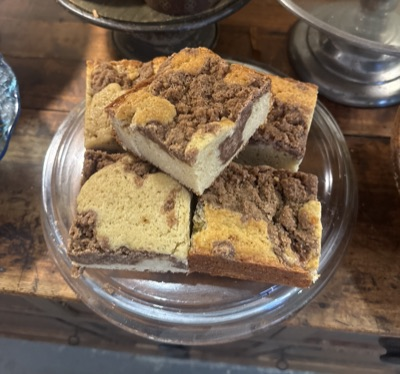
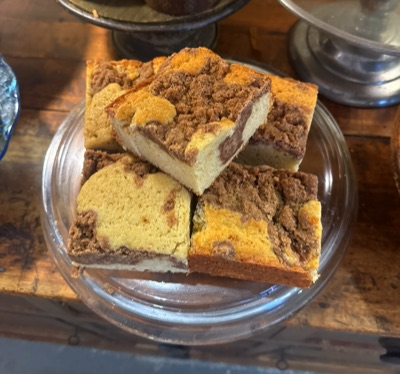
Add 6 new products, Meet the Bakers and Classes & Catering sections
Content update from the owner's spreadsheet: description edits for the
challah/focaccia/granola, an updated scone photo, a saturation boost on
the coffee cake photo, a delivery mention in the ordering blurb, six new
products (Chocolate "Wave" Cake, Olive Oil Cake, Vegan-Friendly "Wacky"
Chocolate Cake, Mini Molten Chocolate Cakes, "Shiny Bottom" Brown Butter
Oatmeal Cookies, Jerusalem Bagels), and two new sections: Meet the Bakers
(bios + family photos) and Classes & Catering.

diff --git a/index.html b/index.html
@@ -51,7 +51,7 @@
       "itemOffered": {
         "@type": "Product",
         "name": "Blue Ribbon Challah",
-        "description": "As sumptuous as it is striking, Uncle Mimi's challah is the perfect addition to your Shabbat table or festive dinner. Just as delicious on its own or as a base for french toast!"
+        "description": "As sumptuous as it is striking, Uncle Mimi's challah is the perfect addition to your Shabbat table or festive dinner. Delicious on its own or as a base for French toast!"
       },
       "availability": "https://schema.org/LimitedAvailability"
     },
@@ -60,7 +60,7 @@
       "itemOffered": {
         "@type": "Product",
         "name": "Focaccia",
-        "description": "The reigning blue ribbon winner in the Martha's Vineyard Agricultural Fair's professional yeast bread category."
+        "description": "If you are looking for a deeply savory, ultra flavorful bread, try this award winning focaccia."
       },
       "availability": "https://schema.org/LimitedAvailability"
     },
@@ -69,7 +69,7 @@
       "itemOffered": {
         "@type": "Product",
         "name": "Granola",
-        "description": "Naturally vegan, slightly sweet, and absolutely addictive."
+        "description": "Naturally vegan-friendly, gluten-free, slightly sweet, and absolutely addictive."
       },
       "availability": "https://schema.org/LimitedAvailability"
     },
@@ -99,6 +99,60 @@
         "description": "It's all in the name. Made from a prized family recipe."
       },
       "availability": "https://schema.org/LimitedAvailability"
+    },
+    {
+      "@type": "Offer",
+      "itemOffered": {
+        "@type": "Product",
+        "name": "Chocolate \"Wave\" Cake",
+        "description": "A light and airy chocolate cake with a perfectly balanced sweetness — simple, delicate, and sure to satisfy every craving."
+      },
+      "availability": "https://schema.org/LimitedAvailability"
+    },
+    {
+      "@type": "Offer",
+      "itemOffered": {
+        "@type": "Product",
+        "name": "Olive Oil Cake",
+        "description": "Rich and tender, our Olive Oil Cake offers a soft, golden crumb with a subtle fruity depth and bright notes of fresh citrus. This is an elegant classic that pairs beautifully with fresh berries, a dollop of whipped cream, or a warm cup of coffee."
+      },
+      "availability": "https://schema.org/LimitedAvailability"
+    },
+    {
+      "@type": "Offer",
+      "itemOffered": {
+        "@type": "Product",
+        "name": "Vegan-Friendly \"Wacky\" Chocolate Cake",
+        "description": "An iconic 1930s classic! Our 'Wacky' Chocolate Cake uses traditional pantry ingredients to create an impossibly soft, rich chocolate sponge without any dairy or eggs."
+      },
+      "availability": "https://schema.org/LimitedAvailability"
+    },
+    {
+      "@type": "Offer",
+      "itemOffered": {
+        "@type": "Product",
+        "name": "Mini Molten Chocolate Cakes",
+        "description": "Crafted with high-quality dark chocolate and pure butter, these warm mini lava cakes deliver a soft baked exterior with a luscious chocolate center in every bite."
+      },
+      "availability": "https://schema.org/LimitedAvailability"
+    },
+    {
+      "@type": "Offer",
+      "itemOffered": {
+        "@type": "Product",
+        "name": "\"Shiny Bottom\" Brown Butter Oatmeal Cookies",
+        "description": "Ultra-thin oatmeal lace crisps with a glassy, caramelized toffee bottom. Golden, crunchy, and packed with flavor."
+      },
+      "availability": "https://schema.org/LimitedAvailability"
+    },
+    {
+      "@type": "Offer",
+      "itemOffered": {
+        "@type": "Product",
+        "name": "Jerusalem Bagels",
+        "description": "Light and airy, these elongated, oval street-style bagels feature a soft, bread-like crumb and a delicate crust. Perfect for tearing apart and pairing with your favorite savory dips."
+      },
+      "availability": "https://schema.org/LimitedAvailability"
     }
   ],
   "sameAs": [
@@ -113,7 +167,7 @@
     <div class="wrap wrap--wide site-header__inner">
       <a class="brand brand--logo" href="#top"><img class="brand__img" src="assets/images/brand/uncle-mimi-logo.png" width="204" height="96" alt="Uncle Mimi's Kitchen" fetchpriority="high"></a>
       <nav class="primary-nav" aria-label="Primary">
-        <ul><li><a href="#story" data-spy>Our Story</a></li><li><a href="#products" data-spy>Products</a></li><li><a href="#locations" data-spy>Where to Find Us</a></li><li><a href="#contact" data-spy>Contact</a></li></ul>
+        <ul><li><a href="#story" data-spy>Our Story</a></li><li><a href="#products" data-spy>Products</a></li><li><a href="#team" data-spy>Meet the Bakers</a></li><li><a href="#extras" data-spy>Classes &amp; Catering</a></li><li><a href="#locations" data-spy>Where to Find Us</a></li><li><a href="#contact" data-spy>Contact</a></li></ul>
       </nav>
       <div class="header-actions">
         <a class="btn btn--primary" href="#contact">Custom Orders</a>
@@ -174,7 +228,7 @@
           </div>
           <div class="product-card__body">
             <h3 class="product-card__name">Blue Ribbon Challah</h3>
-            <p class="product-card__desc">As sumptuous as it is striking, Uncle Mimi's challah is the perfect addition to your Shabbat table or festive dinner. Just as delicious on its own or as a base for french toast!</p>
+            <p class="product-card__desc">As sumptuous as it is striking, Uncle Mimi's challah is the perfect addition to your Shabbat table or festive dinner. Delicious on its own or as a base for French toast!</p>
             
           </div>
         </article><article class="product-card" data-reveal style="transition-delay:90ms">
@@ -191,7 +245,7 @@
           </div>
           <div class="product-card__body">
             <h3 class="product-card__name">Focaccia</h3>
-            <p class="product-card__desc">The reigning blue ribbon winner in the Martha's Vineyard Agricultural Fair's professional yeast bread category.</p>
+            <p class="product-card__desc">If you are looking for a deeply savory, ultra flavorful bread, try this award winning focaccia.</p>
             
           </div>
         </article><article class="product-card" data-reveal style="transition-delay:180ms">
@@ -208,18 +262,18 @@
           </div>
           <div class="product-card__body">
             <h3 class="product-card__name">Granola</h3>
-            <p class="product-card__desc">Naturally vegan, slightly sweet, and absolutely addictive.</p>
+            <p class="product-card__desc">Naturally vegan-friendly, gluten-free, slightly sweet, and absolutely addictive.</p>
             <span class="tag">Vegan</span>
           </div>
         </article><article class="product-card" data-reveal style="transition-delay:0ms">
           <div class="product-card__media">
             <span class="ribbon-badge" tabindex="0" role="img" aria-label="Blue Ribbon Winner. 1st place, MV Agricultural Fair."><svg viewBox="0 0 48 64" fill="none" xmlns="http://www.w3.org/2000/svg" aria-hidden="true"><path d="M18 36h6v25l-3-4.2-3 4.2z" fill="#164a86"/><path d="M24 36h6v25l-3-4.2-3 4.2z" fill="#1a5aa0"/><circle cx="24" cy="24" r="17.5" fill="#1f5fa8"/><circle cx="24" cy="24" r="17.5" fill="none" stroke="#15487f" stroke-width="2" stroke-dasharray="2.6 3"/><circle cx="24" cy="24" r="13" fill="#2f76c6"/><circle cx="24" cy="24" r="13" fill="none" stroke="#ffffff" stroke-width="1.4" opacity="0.9"/><path d="M24 15.2l2.34 4.74 5.23.76-3.78 3.69.89 5.21L24 27.4l-4.68 2.46.89-5.21-3.78-3.69 5.23-.76z" fill="#f4c24b"/></svg><span class="ribbon-badge__tip" role="tooltip"><strong>Blue Ribbon Winner</strong>1st place, MV Agricultural Fair</span></span>
             <button type="button" class="product-card__zoom"
-                    data-lightbox-src="assets/images/products/cranberry-orange-scones-1074.jpg" data-lightbox-w="1074"
-                    data-lightbox-h="800" data-lightbox-alt="A rattan basket of golden, cranberry-studded scones."
+                    data-lightbox-src="assets/images/products/cranberry-orange-scones-1100.jpg" data-lightbox-w="1100"
+                    data-lightbox-h="760" data-lightbox-alt="A rattan basket of golden, cranberry-studded scones."
                     data-lightbox-caption="Cranberry Orange Scones"
                     aria-label="View a larger photo of Cranberry Orange Scones">
-              <img src="assets/images/products/cranberry-orange-scones-1074.jpg" srcset="assets/images/products/cranberry-orange-scones-400.jpg 400w, assets/images/products/cranberry-orange-scones-600.jpg 600w, assets/images/products/cranberry-orange-scones-800.jpg 800w, assets/images/products/cranberry-orange-scones-1074.jpg 1074w" sizes="(min-width: 860px) 30vw, (min-width: 560px) 45vw, 92vw" width="1074" height="800" alt="A rattan basket of golden, cranberry-studded scones." loading="lazy" decoding="async">
+              <img src="assets/images/products/cranberry-orange-scones-1100.jpg" srcset="assets/images/products/cranberry-orange-scones-400.jpg 400w, assets/images/products/cranberry-orange-scones-600.jpg 600w, assets/images/products/cranberry-orange-scones-800.jpg 800w, assets/images/products/cranberry-orange-scones-1100.jpg 1100w" sizes="(min-width: 860px) 30vw, (min-width: 560px) 45vw, 92vw" width="1100" height="760" alt="A rattan basket of golden, cranberry-studded scones." loading="lazy" decoding="async">
               <span class="product-card__zoom-icon" aria-hidden="true"><svg viewBox="0 0 24 24" fill="none" stroke="currentColor" stroke-width="1.8" aria-hidden="true"><circle cx="10.5" cy="10.5" r="6.5"/><path d="M15.3 15.3 21 21"/><path d="M10.5 7.5v6M7.5 10.5h6"/></svg></span>
             </button>
           </div>
@@ -262,7 +316,163 @@
             <p class="product-card__desc">It's all in the name. Made from a prized family recipe.</p>
             
           </div>
+        </article><article class="product-card" data-reveal style="transition-delay:0ms">
+          <div class="product-card__media">
+            
+            <button type="button" class="product-card__zoom"
+                    data-lightbox-src="assets/images/products/chocolate-wave-cake-964.jpg" data-lightbox-w="964"
+                    data-lightbox-h="766" data-lightbox-alt="A dark chocolate bundt-shaped cake dusted with powdered sugar, sliced into wave-like scalloped pieces on a plate."
+                    data-lightbox-caption="Chocolate &quot;Wave&quot; Cake"
+                    aria-label="View a larger photo of Chocolate &quot;Wave&quot; Cake">
+              <img src="assets/images/products/chocolate-wave-cake-964.jpg" srcset="assets/images/products/chocolate-wave-cake-400.jpg 400w, assets/images/products/chocolate-wave-cake-600.jpg 600w, assets/images/products/chocolate-wave-cake-800.jpg 800w, assets/images/products/chocolate-wave-cake-964.jpg 964w" sizes="(min-width: 860px) 30vw, (min-width: 560px) 45vw, 92vw" width="964" height="766" alt="A dark chocolate bundt-shaped cake dusted with powdered sugar, sliced into wave-like scalloped pieces on a plate." loading="lazy" decoding="async">
+              <span class="product-card__zoom-icon" aria-hidden="true"><svg viewBox="0 0 24 24" fill="none" stroke="currentColor" stroke-width="1.8" aria-hidden="true"><circle cx="10.5" cy="10.5" r="6.5"/><path d="M15.3 15.3 21 21"/><path d="M10.5 7.5v6M7.5 10.5h6"/></svg></span>
+            </button>
+          </div>
+          <div class="product-card__body">
+            <h3 class="product-card__name">Chocolate "Wave" Cake</h3>
+            <p class="product-card__desc">A light and airy chocolate cake with a perfectly balanced sweetness — simple, delicate, and sure to satisfy every craving.</p>
+            
+          </div>
+        </article><article class="product-card" data-reveal style="transition-delay:90ms">
+          <div class="product-card__media">
+            
+            <button type="button" class="product-card__zoom"
+                    data-lightbox-src="assets/images/products/olive-oil-cake-960.jpg" data-lightbox-w="960"
+                    data-lightbox-h="708" data-lightbox-alt="A round golden olive oil cake dusted with a powdered-sugar pinwheel pattern, on a black plate with a lace doily."
+                    data-lightbox-caption="Olive Oil Cake"
+                    aria-label="View a larger photo of Olive Oil Cake">
+              <img src="assets/images/products/olive-oil-cake-960.jpg" srcset="assets/images/products/olive-oil-cake-400.jpg 400w, assets/images/products/olive-oil-cake-600.jpg 600w, assets/images/products/olive-oil-cake-800.jpg 800w, assets/images/products/olive-oil-cake-960.jpg 960w" sizes="(min-width: 860px) 30vw, (min-width: 560px) 45vw, 92vw" width="960" height="708" alt="A round golden olive oil cake dusted with a powdered-sugar pinwheel pattern, on a black plate with a lace doily." loading="lazy" decoding="async">
+              <span class="product-card__zoom-icon" aria-hidden="true"><svg viewBox="0 0 24 24" fill="none" stroke="currentColor" stroke-width="1.8" aria-hidden="true"><circle cx="10.5" cy="10.5" r="6.5"/><path d="M15.3 15.3 21 21"/><path d="M10.5 7.5v6M7.5 10.5h6"/></svg></span>
+            </button>
+          </div>
+          <div class="product-card__body">
+            <h3 class="product-card__name">Olive Oil Cake</h3>
+            <p class="product-card__desc">Rich and tender, our Olive Oil Cake offers a soft, golden crumb with a subtle fruity depth and bright notes of fresh citrus. This is an elegant classic that pairs beautifully with fresh berries, a dollop of whipped cream, or a warm cup of coffee.</p>
+            
+          </div>
+        </article><article class="product-card" data-reveal style="transition-delay:180ms">
+          <div class="product-card__media">
+            
+            <button type="button" class="product-card__zoom"
+                    data-lightbox-src="assets/images/products/vegan-wacky-chocolate-cake-1100.jpg" data-lightbox-w="1100"
+                    data-lightbox-h="1100" data-lightbox-alt="A round chocolate cake with a glossy chocolate drizzle in a crosshatch pattern, in a white bakery box."
+                    data-lightbox-caption="Vegan-Friendly &quot;Wacky&quot; Chocolate Cake"
+                    aria-label="View a larger photo of Vegan-Friendly &quot;Wacky&quot; Chocolate Cake">
+              <img src="assets/images/products/vegan-wacky-chocolate-cake-1100.jpg" srcset="assets/images/products/vegan-wacky-chocolate-cake-400.jpg 400w, assets/images/products/vegan-wacky-chocolate-cake-600.jpg 600w, assets/images/products/vegan-wacky-chocolate-cake-800.jpg 800w, assets/images/products/vegan-wacky-chocolate-cake-1100.jpg 1100w" sizes="(min-width: 860px) 30vw, (min-width: 560px) 45vw, 92vw" width="1100" height="1100" alt="A round chocolate cake with a glossy chocolate drizzle in a crosshatch pattern, in a white bakery box." loading="lazy" decoding="async">
+              <span class="product-card__zoom-icon" aria-hidden="true"><svg viewBox="0 0 24 24" fill="none" stroke="currentColor" stroke-width="1.8" aria-hidden="true"><circle cx="10.5" cy="10.5" r="6.5"/><path d="M15.3 15.3 21 21"/><path d="M10.5 7.5v6M7.5 10.5h6"/></svg></span>
+            </button>
+          </div>
+          <div class="product-card__body">
+            <h3 class="product-card__name">Vegan-Friendly "Wacky" Chocolate Cake</h3>
+            <p class="product-card__desc">An iconic 1930s classic! Our 'Wacky' Chocolate Cake uses traditional pantry ingredients to create an impossibly soft, rich chocolate sponge without any dairy or eggs.</p>
+            <span class="tag">Vegan</span>
+          </div>
+        </article><article class="product-card" data-reveal style="transition-delay:0ms">
+          <div class="product-card__media">
+            
+            <button type="button" class="product-card__zoom"
+                    data-lightbox-src="assets/images/products/mini-molten-chocolate-cakes-1100.jpg" data-lightbox-w="1100"
+                    data-lightbox-h="825" data-lightbox-alt="A row of twelve mini chocolate lava cakes in brown paper liners, each topped with powdered sugar and a fresh raspberry."
+                    data-lightbox-caption="Mini Molten Chocolate Cakes"
+                    aria-label="View a larger photo of Mini Molten Chocolate Cakes">
+              <img src="assets/images/products/mini-molten-chocolate-cakes-1100.jpg" srcset="assets/images/products/mini-molten-chocolate-cakes-400.jpg 400w, assets/images/products/mini-molten-chocolate-cakes-600.jpg 600w, assets/images/products/mini-molten-chocolate-cakes-800.jpg 800w, assets/images/products/mini-molten-chocolate-cakes-1100.jpg 1100w" sizes="(min-width: 860px) 30vw, (min-width: 560px) 45vw, 92vw" width="1100" height="825" alt="A row of twelve mini chocolate lava cakes in brown paper liners, each topped with powdered sugar and a fresh raspberry." loading="lazy" decoding="async">
+              <span class="product-card__zoom-icon" aria-hidden="true"><svg viewBox="0 0 24 24" fill="none" stroke="currentColor" stroke-width="1.8" aria-hidden="true"><circle cx="10.5" cy="10.5" r="6.5"/><path d="M15.3 15.3 21 21"/><path d="M10.5 7.5v6M7.5 10.5h6"/></svg></span>
+            </button>
+          </div>
+          <div class="product-card__body">
+            <h3 class="product-card__name">Mini Molten Chocolate Cakes</h3>
+            <p class="product-card__desc">Crafted with high-quality dark chocolate and pure butter, these warm mini lava cakes deliver a soft baked exterior with a luscious chocolate center in every bite.</p>
+            
+          </div>
+        </article><article class="product-card" data-reveal style="transition-delay:90ms">
+          <div class="product-card__media">
+            
+            <button type="button" class="product-card__zoom"
+                    data-lightbox-src="assets/images/products/shiny-bottom-oatmeal-cookies-1100.jpg" data-lightbox-w="1100"
+                    data-lightbox-h="825" data-lightbox-alt="A pile of thin, golden-brown oatmeal lace cookies with a glossy caramelized bottom, cooling on a wire rack."
+                    data-lightbox-caption="&quot;Shiny Bottom&quot; Brown Butter Oatmeal Cookies"
+                    aria-label="View a larger photo of &quot;Shiny Bottom&quot; Brown Butter Oatmeal Cookies">
+              <img src="assets/images/products/shiny-bottom-oatmeal-cookies-1100.jpg" srcset="assets/images/products/shiny-bottom-oatmeal-cookies-400.jpg 400w, assets/images/products/shiny-bottom-oatmeal-cookies-600.jpg 600w, assets/images/products/shiny-bottom-oatmeal-cookies-800.jpg 800w, assets/images/products/shiny-bottom-oatmeal-cookies-1100.jpg 1100w" sizes="(min-width: 860px) 30vw, (min-width: 560px) 45vw, 92vw" width="1100" height="825" alt="A pile of thin, golden-brown oatmeal lace cookies with a glossy caramelized bottom, cooling on a wire rack." loading="lazy" decoding="async">
+              <span class="product-card__zoom-icon" aria-hidden="true"><svg viewBox="0 0 24 24" fill="none" stroke="currentColor" stroke-width="1.8" aria-hidden="true"><circle cx="10.5" cy="10.5" r="6.5"/><path d="M15.3 15.3 21 21"/><path d="M10.5 7.5v6M7.5 10.5h6"/></svg></span>
+            </button>
+          </div>
+          <div class="product-card__body">
+            <h3 class="product-card__name">"Shiny Bottom" Brown Butter Oatmeal Cookies</h3>
+            <p class="product-card__desc">Ultra-thin oatmeal lace crisps with a glassy, caramelized toffee bottom. Golden, crunchy, and packed with flavor.</p>
+            
+          </div>
+        </article><article class="product-card" data-reveal style="transition-delay:180ms">
+          <div class="product-card__media">
+            
+            <button type="button" class="product-card__zoom"
+                    data-lightbox-src="assets/images/products/jerusalem-bagels-1100.jpg" data-lightbox-w="1100"
+                    data-lightbox-h="1203" data-lightbox-alt="Several oval Jerusalem-style bagels topped with sesame and za&#x27;atar seed blends, fresh from the oven on parchment paper."
+                    data-lightbox-caption="Jerusalem Bagels"
+                    aria-label="View a larger photo of Jerusalem Bagels">
+              <img src="assets/images/products/jerusalem-bagels-1100.jpg" srcset="assets/images/products/jerusalem-bagels-400.jpg 400w, assets/images/products/jerusalem-bagels-600.jpg 600w, assets/images/products/jerusalem-bagels-800.jpg 800w, assets/images/products/jerusalem-bagels-1100.jpg 1100w" sizes="(min-width: 860px) 30vw, (min-width: 560px) 45vw, 92vw" width="1100" height="1203" alt="Several oval Jerusalem-style bagels topped with sesame and za&#x27;atar seed blends, fresh from the oven on parchment paper." loading="lazy" decoding="async">
+              <span class="product-card__zoom-icon" aria-hidden="true"><svg viewBox="0 0 24 24" fill="none" stroke="currentColor" stroke-width="1.8" aria-hidden="true"><circle cx="10.5" cy="10.5" r="6.5"/><path d="M15.3 15.3 21 21"/><path d="M10.5 7.5v6M7.5 10.5h6"/></svg></span>
+            </button>
+          </div>
+          <div class="product-card__body">
+            <h3 class="product-card__name">Jerusalem Bagels</h3>
+            <p class="product-card__desc">Light and airy, these elongated, oval street-style bagels feature a soft, bread-like crumb and a delicate crust. Perfect for tearing apart and pairing with your favorite savory dips.</p>
+            
+          </div>
         </article></div>
+      </div>
+    </section>
+<section class="section" id="team" aria-labelledby="team-title">
+      <div class="wrap wrap--wide">
+        <div class="section__head" data-reveal>
+          <p class="eyebrow">The Family Behind the Ovens</p>
+          <h2 class="section__title" id="team-title">Meet the Bakers</h2>
+        </div>
+        <div class="team-grid"><article class="team-card" data-reveal style="transition-delay:0ms">
+          <figure class="team-card__media">
+            <img src="assets/images/team/tammy-childhood-800.jpg" srcset="assets/images/team/tammy-childhood-400.jpg 400w, assets/images/team/tammy-childhood-600.jpg 600w, assets/images/team/tammy-childhood-800.jpg 800w" sizes="(min-width: 1080px) 30vw, (min-width: 720px) 45vw, 92vw" width="800" height="603" alt="A toddler in an apron smiling in a kitchen, mixing bowl in hand." loading="lazy" decoding="async">
+            <figcaption>Tammy, age 2, already cooking up a storm.</figcaption>
+          </figure>
+          <div class="team-card__body">
+            <h3 class="team-card__name">Tammy</h3>
+            <p>Before launching Uncle Mimi’s Kitchen in Chilmark, Tammy spent over twenty years honing her craft across the food world. Professionally trained in both the culinary arts and bread baking, Tammy has worked extensively across New York City and Martha's Vineyard as a baker, private chef, and hands-on cooking instructor — sharing her passion for exceptional food with everyone from home cooks to private dinner party guests.</p><p>Her skills include writing and recipe testing, real-time culinary coaching, and years of developing recipes rooted in fresh, vibrant, seasonal flavors. Today, Tammy brings her classic training and deep love for artisanal baking straight to Martha's Vineyard, elevating simple, high-quality ingredients into exceptional everyday treats.</p>
+          </div>
+        </article><article class="team-card" data-reveal style="transition-delay:90ms">
+          <figure class="team-card__media">
+            <img src="assets/images/team/nina-childhood-800.jpg" srcset="assets/images/team/nina-childhood-400.jpg 400w, assets/images/team/nina-childhood-600.jpg 600w, assets/images/team/nina-childhood-800.jpg 800w" sizes="(min-width: 1080px) 30vw, (min-width: 720px) 45vw, 92vw" width="800" height="533" alt="A parent and toddler standing side by side at a kitchen counter, the toddler on a step stool helping cook." loading="lazy" decoding="async">
+            <figcaption>Nina, age 2, cooking with Tammy since 2003.</figcaption>
+          </figure>
+          <div class="team-card__body">
+            <h3 class="team-card__name">Nina</h3>
+            <p>Nina got her start training under her mother, Tammy. She braided her first challah at three years old, and hasn't stopped since. She worked as the head chef and baker at Dartmouth Hillel for four years, cooking dinners and baking bread for 250 people weekly. Since then, she has worked as a private chef, caterer, and baking workshop instructor across the northeast. She is passionate about making great food and sharing it with great people.</p>
+          </div>
+        </article><article class="team-card" data-reveal style="transition-delay:180ms">
+          <figure class="team-card__media">
+            <img src="assets/images/team/natalie-childhood-800.jpg" srcset="assets/images/team/natalie-childhood-400.jpg 400w, assets/images/team/natalie-childhood-600.jpg 600w, assets/images/team/natalie-childhood-800.jpg 800w" sizes="(min-width: 1080px) 30vw, (min-width: 720px) 45vw, 92vw" width="800" height="600" alt="A baby in a sun hat sitting in a small inflatable pool on the beach, eating a snack." loading="lazy" decoding="async">
+            <figcaption>Natalie, 9 months old, always eating something.</figcaption>
+          </figure>
+          <div class="team-card__body">
+            <h3 class="team-card__name">Natalie</h3>
+            <p>Natalie is the sales and marketing mastermind behind Uncle Mimi's. She is the most enthusiastic champion of our products and was the catalyst for starting the business back in 2024. Recently, she has joined us in the kitchen and has become a master challah braider!</p>
+          </div>
+        </article></div>
+      </div>
+    </section>
+<section class="section section--tint" id="extras" aria-labelledby="extras-title">
+      <div class="wrap">
+        <div class="contact__grid">
+          <div class="contact__card" data-reveal>
+            <div class="section__head" style="margin-bottom:var(--space-md)">
+              <p class="eyebrow">Classes</p>
+              <h2 class="section__title" id="extras-title">Learn to Bake Challah!</h2>
+            </div>
+            <p>Join us for a fun and informative Challah Baking Class on the Vineyard. Learn the fundamentals of dough preparation, master beautiful braiding techniques, and take home the skills (and recipes) to bake fresh, bakery-quality challah whenever you crave it.</p><p>Private individual and small group classes available in Chilmark and island-wide.</p>
+          </div>
+          <div class="contact__card" data-reveal style="transition-delay:120ms">
+            <p class="eyebrow">Catering &amp; Special Orders</p>
+            <h3>Something extra for your event</h3>
+            <p>Looking for something extra for a private event? We have a wide variety of offerings, including custom cheeseboards, grazing tables, catered dinners, and more. Please reach out for more information.</p>
+          </div>
+        </div>
       </div>
     </section>
 <section class="section" id="contact" aria-labelledby="contact-title">
@@ -288,7 +498,7 @@
             <h3>A note on ordering</h3>
             <p>Uncle Mimi's is a small-batch kitchen on Martha's Vineyard. Custom orders are
                arranged directly by email — there's no online checkout, so you'll always
-               talk to a real person about quantities, timing, and pickup.</p>
+               talk to a real person about quantities, timing, and pickup or delivery.</p>
             <p>You can also find our baked goods on shelves at three island stores — see
                <a href="#locations">Where to Find Us</a>.</p>
           </div>
@@ -385,7 +595,7 @@
           </div>
           <nav class="footer-col" aria-label="Footer">
             <h2>Explore</h2>
-            <ul><li><a href="#story">Our Story</a></li><li><a href="#products">Products</a></li><li><a href="#locations">Where to Find Us</a></li><li><a href="#contact">Contact</a></li></ul>
+            <ul><li><a href="#story">Our Story</a></li><li><a href="#products">Products</a></li><li><a href="#team">Meet the Bakers</a></li><li><a href="#extras">Classes &amp; Catering</a></li><li><a href="#locations">Where to Find Us</a></li><li><a href="#contact">Contact</a></li></ul>
           </nav>
           <div class="footer-col">
             <h2>Get in touch</h2>

diff --git a/assets/main.css b/assets/main.css
@@ -361,6 +361,26 @@ body.no-scroll { position: fixed; overflow: hidden; width: 100%; }
 }
 
 /* ==========================================================================
+   Meet the Bakers (team)
+   ========================================================================== */
+.team-grid { display: grid; gap: clamp(1.5rem, 3vw, 2rem); grid-template-columns: 1fr; }
+.team-card {
+  background: var(--surface); border: 1px solid var(--line); border-radius: var(--radius-lg);
+  overflow: hidden; display: flex; flex-direction: column;
+}
+.team-card__media { position: relative; margin: 0; aspect-ratio: 4 / 3; background: var(--bg-alt); }
+.team-card__media img { width: 100%; height: 100%; object-fit: cover; display: block; }
+.team-card__media figcaption {
+  position: absolute; left: 0; right: 0; bottom: 0;
+  background: linear-gradient(to top, rgba(20, 26, 22, 0.78), transparent 80%);
+  color: #fff; font-size: var(--step--1); padding: var(--space-lg) var(--space-sm) var(--space-sm);
+}
+.team-card__body { padding: var(--space-md); display: flex; flex-direction: column; gap: var(--space-xs); flex: 1; }
+.team-card__name { font-size: var(--step-2); }
+.team-card__body p { color: var(--text-muted); }
+.team-card__body p + p { margin-top: var(--space-xs); }
+
+/* ==========================================================================
    Inquiries / Contact
    ========================================================================== */
 .contact__grid { display: grid; gap: var(--space-lg); }
@@ -504,6 +524,7 @@ body.no-scroll { position: fixed; overflow: hidden; width: 100%; }
 @media (min-width: 720px) {
   .location-grid { grid-template-columns: repeat(2, 1fr); }
   .contact__grid { grid-template-columns: 1.1fr 0.9fr; align-items: start; }
+  .team-grid { grid-template-columns: repeat(2, 1fr); }
 }
 @media (min-width: 860px) {
   :root { --header-h: 76px; }
@@ -517,6 +538,7 @@ body.no-scroll { position: fixed; overflow: hidden; width: 100%; }
 }
 @media (min-width: 1080px) {
   .location-grid { grid-template-columns: repeat(3, 1fr); }
+  .team-grid { grid-template-columns: repeat(3, 1fr); }
   .footer-grid { grid-template-columns: 1.6fr 1fr 1fr; }
 }
 
